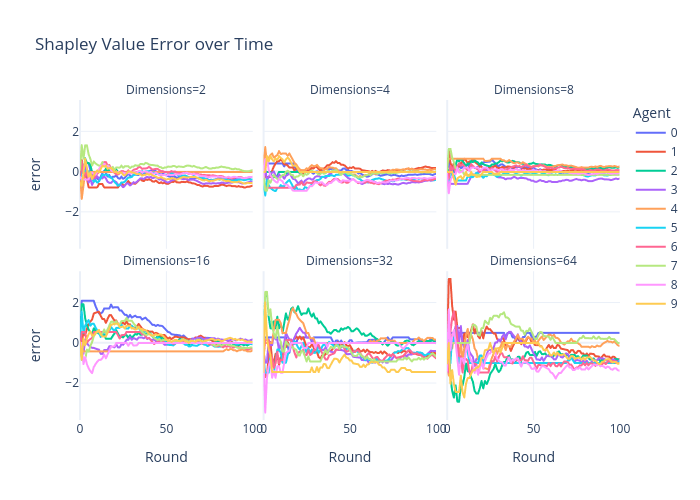
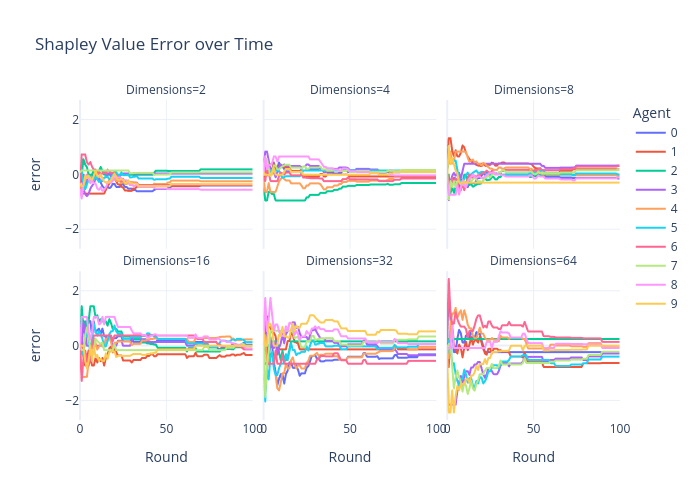
Only move closer to target

Changed region(s): [[0.09, 0.57, 0.9, 0.84], [0.09, 0.27, 0.9, 0.42], [0.09, 0.24, 0.12, 0.27]]

diff --git a/graphing.py b/graphing.py
@@ -17,7 +17,7 @@ from copy import deepcopy
 NUM_USER_POINTS = 10
 NUM_OF_ROUNDS = 100
 DELTA = 0.1
-EXPERT_POINT_SUBSET_SIZE = 3
+EXPERT_POINT_SUBSET_SIZE = 5
 
 # Initialization
 def initialize_points(dimension):
@@ -188,8 +188,15 @@ def simulation(model_point, expert_point, user_points, use_real_shapley: bool = 
         candidate_point_2 = model_point + DELTA * (centroid_2 - model_point)
 
         # let new model point be the one closer to the expert point
+        dist_1 = np.linalg.norm(candidate_point_1 - expert_point)
+        dist_2 = np.linalg.norm(candidate_point_2 - expert_point)
+        dist_cur = np.linalg.norm(model_point - expert_point)
         diff = np.linalg.norm(candidate_point_1 - expert_point) - np.linalg.norm(candidate_point_2 - expert_point)
-        if diff < 0:
+        if dist_cur < dist_1 and dist_cur < dist_2: 
+            # both points are further from expert point than current model point
+            # don't update model point
+            pass
+        elif dist_1 < dist_2:
             model_point = candidate_point_1
             if not use_real_shapley: # give user group 1 a point
                 shapley_values[user_group_1] += 1
@@ -303,9 +310,6 @@ def multiple_dimension(dims: List[int] = [2**i for i in range(1, 7)]):
     )
     fig.show()
     fig.write_image("shapley_error.png")
-
-
-
 
 if __name__ == "__main__":
     # main()
